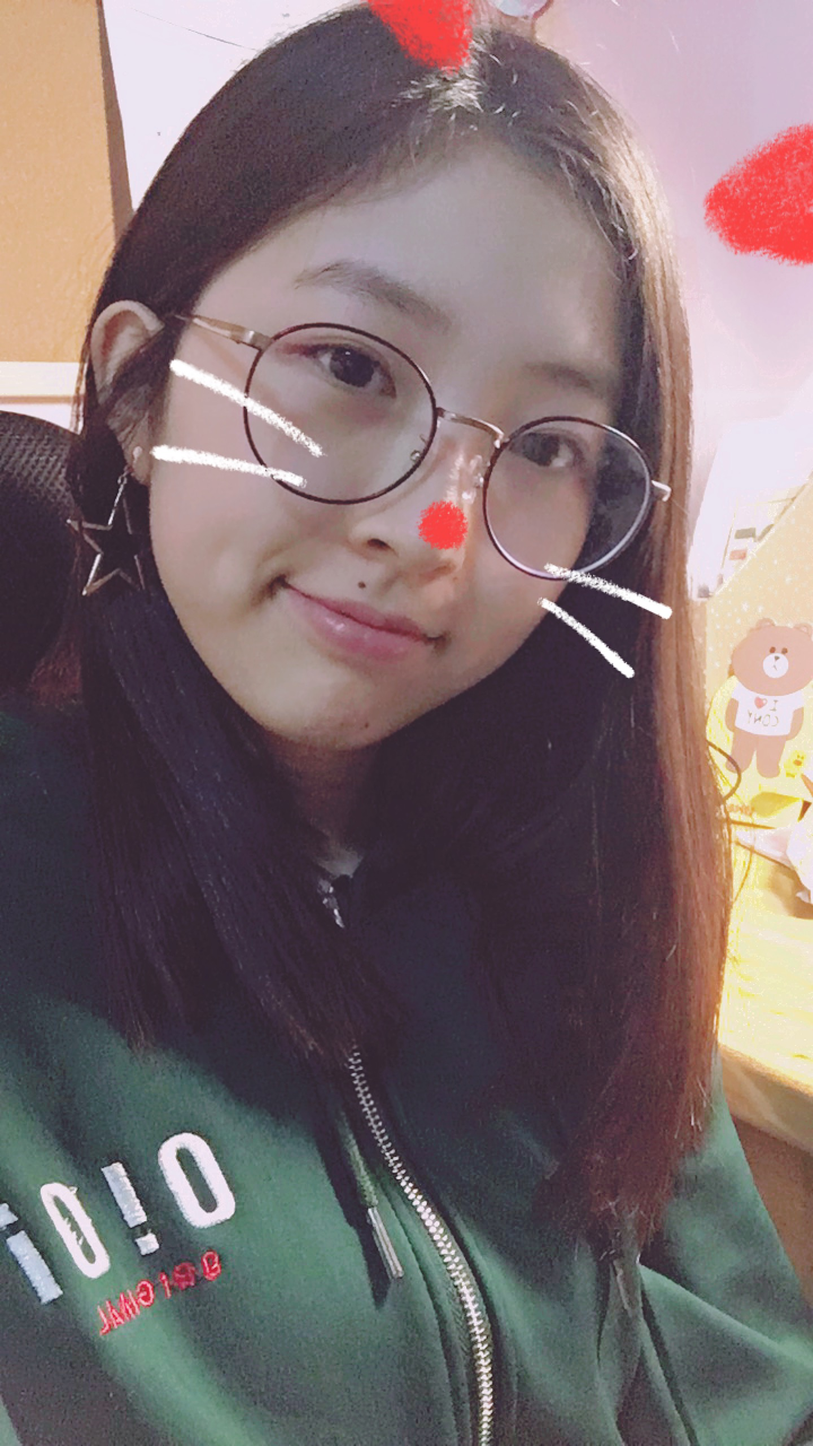
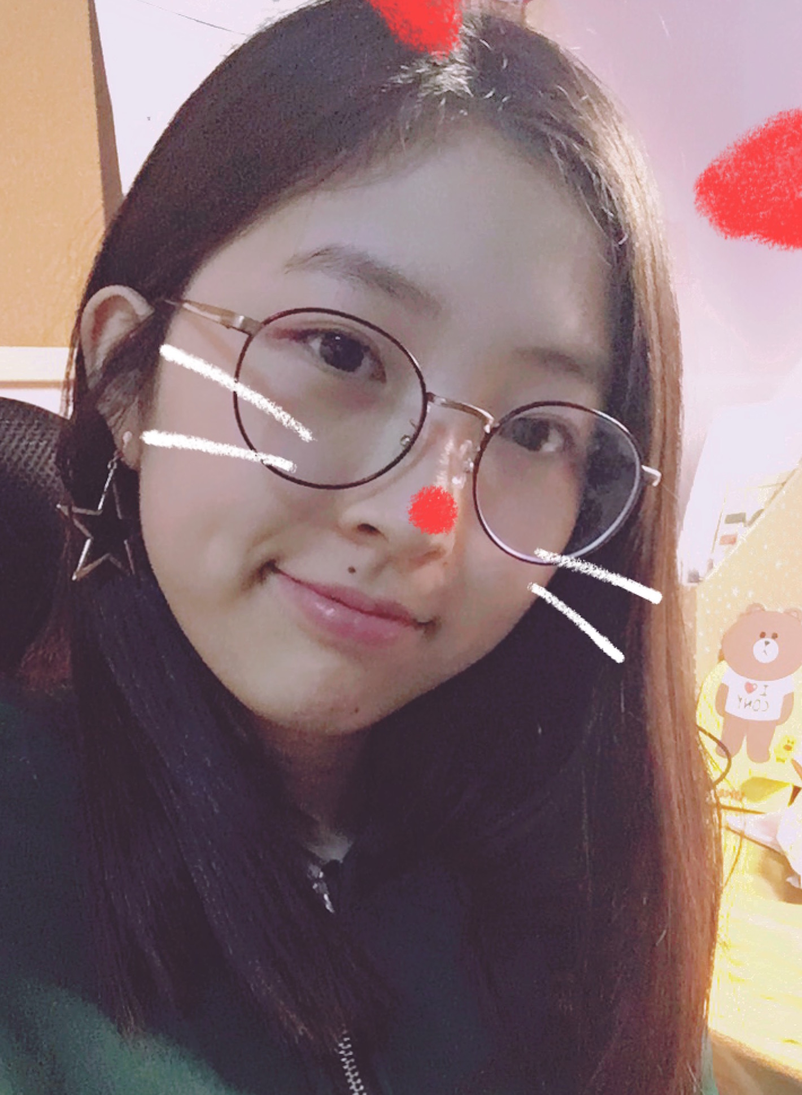
pic1-2

diff --git a/smilewall.md b/smilewall.md
@@ -10,7 +10,7 @@ layout: default
 
 Smile 1 | Smile 2 | Smile 3 | Smile 4 | Smile 5
 ---|---
-![pic1](assets/pic/IMG_1.JPG) | ![pic1](assets/pic/IMG_1.JPG) | ![pic1](assets/pic/IMG_1.JPG) | ![pic1](assets/pic/IMG_1.JPG)| ![pic1](assets/pic/IMG_1.JPG)
+![pic1](assets/pic/IMG_1.JPG) | ![pic1](assets/pic/IMG_2.jpg) | ![pic1](assets/pic/IMG_1.JPG) | ![pic1](assets/pic/IMG_1.JPG)| ![pic1](assets/pic/IMG_1.JPG)
 
 row 2 | row 2 | 3 | 4 | 5
 
